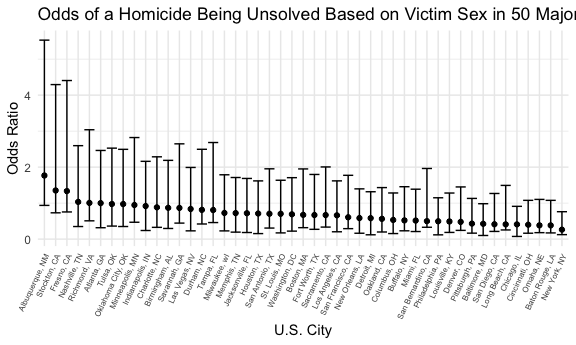
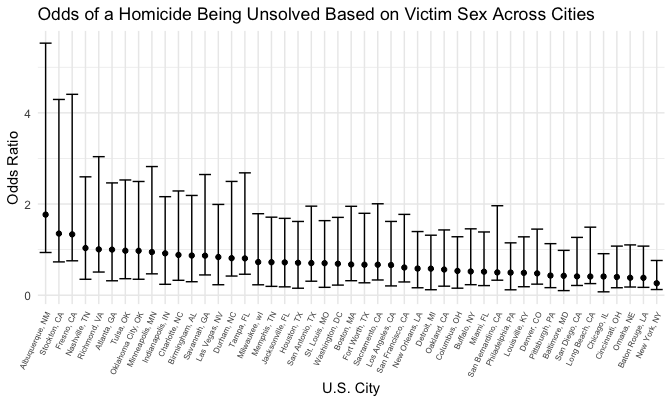
Problem 1

Changed region(s): [[0.0, 0.087, 1.0, 0.9855], [0.0312, 0.0, 1.0, 0.058]]

diff --git a/p8105_hw6_af3341.md b/p8105_hw6_af3341.md
@@ -5,6 +5,61 @@ Alana Ferris
 
 # Problem 1
 
+## Reading in the data
+
+``` r
+weather_df = 
+  rnoaa::meteo_pull_monitors(
+    c("USW00094728"),
+    var = c("PRCP", "TMIN", "TMAX"), 
+    date_min = "2017-01-01",
+    date_max = "2017-12-31") %>%
+  mutate(
+    name = recode(id, USW00094728 = "CentralPark_NY"),
+    tmin = tmin / 10,
+    tmax = tmax / 10) %>%
+  select(name, id, everything())
+```
+
+## 5000 bootstrap samples
+
+``` r
+weather_df %>% 
+  modelr::bootstrap(n = 5000) %>% 
+  mutate(
+    models = map(strap, ~lm(tmax ~ tmin, data = .x) ),
+    results = map(models, broom::glance)) %>% 
+  select(-strap, -models) %>% 
+  unnest(results) %>% 
+  ggplot(aes(x = r.squared)) + geom_density()
+```
+
+<img src="p8105_hw6_af3341_files/figure-gfm/unnamed-chunk-2-1.png" width="90%" />
+The 5000 bootstrap sample distribution appears left skewed. This implies
+that the majority of 5000 bootstrap sample $R^2$ values are closer to 1,
+which indicates our model is a good fit for this data set.
+
+## 95% confidence interval for the 5000 bootstrap samples
+
+``` r
+weather_df %>% 
+  modelr::bootstrap(n = 5000) %>% 
+  mutate(
+    models = map(strap, ~lm(tmax ~ tmin, data = .x) ),
+    results = map(models, broom::tidy)) %>% 
+  select(-strap, -models) %>% 
+  unnest(results) %>% 
+  select(id = `.id`, term, estimate) %>% 
+  pivot_wider(
+    names_from = term, 
+    values_from = estimate) %>% 
+  rename(beta0 = `(Intercept)`, beta1 = tmin) %>% 
+  mutate(log_b0b1 = log(beta0 * beta1)) %>% 
+  ggplot(aes(x = log_b0b1)) + geom_density()
+```
+
+<img src="p8105_hw6_af3341_files/figure-gfm/unnamed-chunk-3-1.png" width="90%" />
+
 # Problem 2
 
 ## Reading in and cleaning homicide data
@@ -112,12 +167,12 @@ all_unnested %>%
   geom_errorbar(aes(x = city_state, ymin = OR - CI_lower, ymax = OR + CI_upper)) + 
   theme(axis.text.x = element_text(angle = 65, hjust = 1, size = 6)) +
    labs(
-    title = "Odds of a Homicide Being Unsolved Based on Victim Sex in 50 Major U.S. Cities",
+    title = "Odds of a Homicide Being Unsolved Based on Victim Sex Across Cities",
     x = "U.S. City",
     y = "Odds Ratio")
 ```
 
-<img src="p8105_hw6_af3341_files/figure-gfm/unnamed-chunk-4-1.png" width="90%" />
+<img src="p8105_hw6_af3341_files/figure-gfm/unnamed-chunk-7-1.png" width="90%" />
 
 On average, there is a higher odds of a homicide being unsolved if the
 victim is male which we can see because the majority of the odds ratios
@@ -149,7 +204,7 @@ fit = birthweight %>%
     mrace = fct_infreq(mrace),
     babysex = fct_infreq(babysex)) %>% 
     lm(bwt ~ mrace + smoken + babysex + gaweeks + parity + blength, data = .) 
-
+  
 fit %>% 
   broom::tidy() %>% 
   knitr::kable(digits = 4)
@@ -168,31 +223,25 @@ fit %>%
 | blength           |   122.2054 |    1.9758 |   61.8516 |  0.0000 |
 
 ``` r
-modelr::add_residuals(birthweight, fit) %>% 
-  ggplot(aes(x = bwt, y = resid)) + 
+predict_table = add_predictions(birthweight, fit) %>% 
+  select(bwt, pred, everything())
+
+modelr::add_residuals(predict_table, fit) %>% 
+  ggplot(aes(x = pred, y = resid)) + 
   geom_point()
 ```
 
-<img src="p8105_hw6_af3341_files/figure-gfm/unnamed-chunk-6-1.png" width="90%" />
+<img src="p8105_hw6_af3341_files/figure-gfm/unnamed-chunk-9-1.png" width="90%" />
 
-``` r
-modelr::add_predictions(birthweight, fit) %>% 
-  ggplot(aes(x = bwt, y = pred)) + 
-  geom_point()
-```
-
-<img src="p8105_hw6_af3341_files/figure-gfm/unnamed-chunk-6-2.png" width="90%" />
-
-When building my regression model, I included factors that are
-hypothesized to impact birthweight including the mother’s race and
-smoking habits, the baby’s sex, gestational age, and number of live
-births the mother had prior to this pregnancy.
+When building the regression model, I included factors that have been
+shown to impact birthweight: mother’s race, mother’s smoking habits,
+number of live births the mother had prior to this pregnancy, baby’s
+sex, gestational age, length.
 
 ## 2 models for comparison
 
 ``` r
-length_gsa =
-  birthweight %>% 
+length_gsa = birthweight %>% 
   lm(bwt ~ blength + gaweeks, data = .)
 
 multi = birthweight %>% 
@@ -207,7 +256,7 @@ birthweight %>%
   facet_wrap(~model)
 ```
 
-<img src="p8105_hw6_af3341_files/figure-gfm/unnamed-chunk-7-1.png" width="90%" />
+<img src="p8105_hw6_af3341_files/figure-gfm/unnamed-chunk-10-1.png" width="90%" />
 
 ## Cross validation
 
@@ -241,7 +290,7 @@ cv_mutated %>%
   ggplot(aes(x = model, y = rmse)) + geom_violin()
 ```
 
-<img src="p8105_hw6_af3341_files/figure-gfm/unnamed-chunk-8-1.png" width="90%" />
+<img src="p8105_hw6_af3341_files/figure-gfm/unnamed-chunk-11-1.png" width="90%" />
 
 Our model seems reasonably fit in comparison to the other two models.
 However, the multi-fit model has the lowest RMSE, so is technically the
